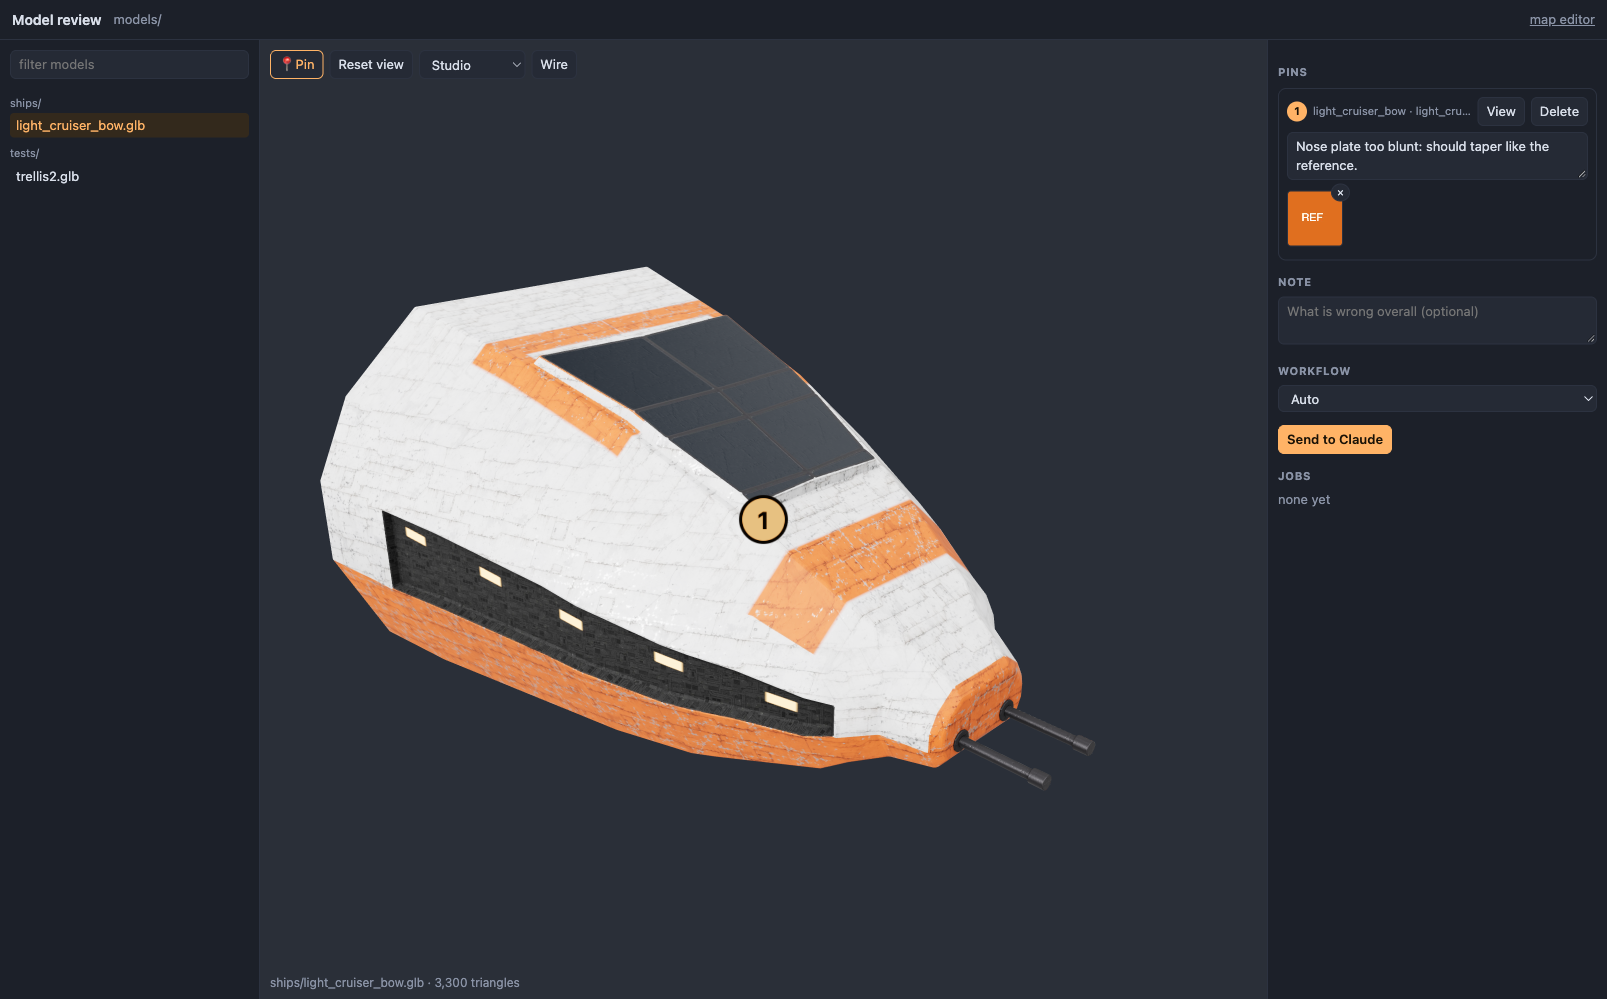
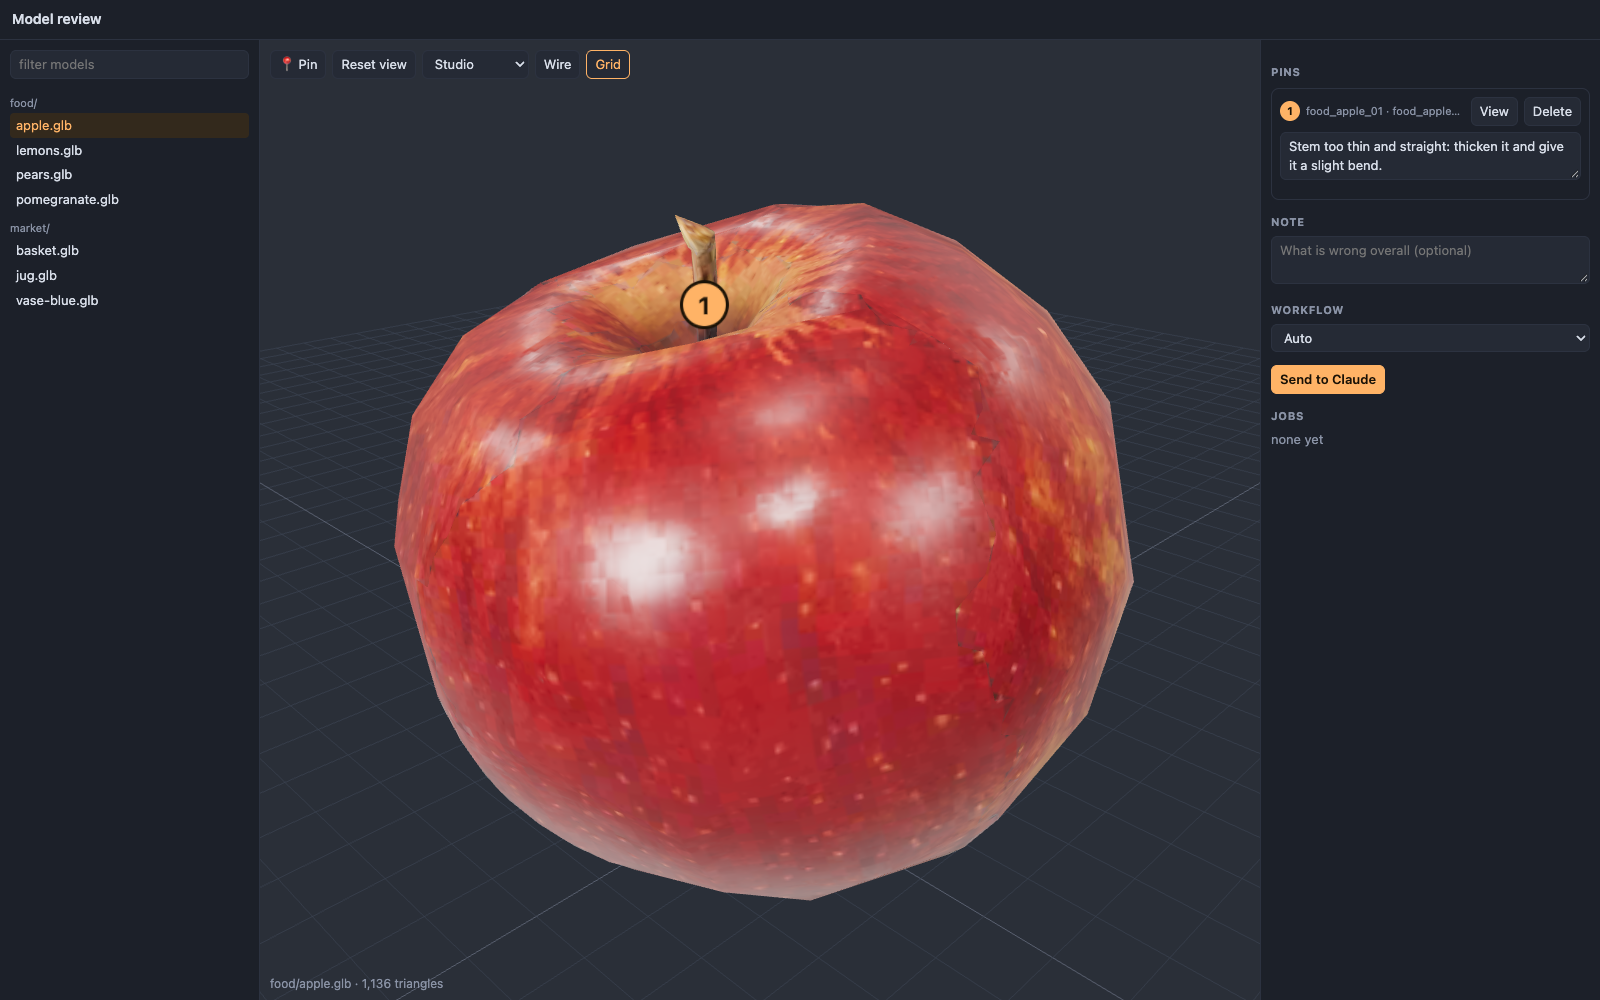
README: new screenshots and the workbench
- docs/editor.png and docs/editor-3d.png retaken with npm run screenshot (the current theme); docs/viewer.png
  shows an apple with a pin on its stem.
- The README follows the workbench commits: the map editor and model viewer are its tabs (/map and /viewer
  go to /?view=…, ?alone keeps the bare page), the bar, the side panel following the view, ⌘B ⌘I ⌘J for the
  panels, one grid switch (⌘G), the viewer's Grid button and ?model=.

diff --git a/README.md b/README.md
@@ -8,9 +8,9 @@ checks the plan against a JSON Schema, writes it atomically and keeps the old fi
 check warns about pieces standing in each other, things outside the map, blocked doors and similar. A
 **3D view** shows the same plan as boxes, where you lift pieces onto roofs and move them along x, y and z.
 A **model viewer** shows the game's models (GLB): pin what is wrong on a model, add notes and reference images,
-and send it to a Claude Code session that fixes it and reports back (see [Model review](#model-review)). Both pages
-share a bar with links between them and **Open project…**, which browses your home folder for another project to open,
-and a project's models appear in the palette as kinds of piece by themselves.
+and send it to a Claude Code session that fixes it and reports back (see [Model review](#model-review)). Both are
+tabs of one **workbench**, under one bar with **Open project…**, which browses your home folder for another project
+to open, and a project's models appear in the palette as kinds of piece by themselves.
 
 The editor's core works for any game. Anything specific to one game lives in a **project config file**
 (`map-editor.config.mjs`): where its kinds of piece and their sizes come from, its own compile and
@@ -63,7 +63,7 @@ npm install        # nothing to download: it only sets up the package
 npm start
 ```
 
-Then open **http://127.0.0.1:8793/** (the workbench; the map editor alone is at `/map`). `npm start` serves `examples/sample/`, a small walled square.
+Then open **http://127.0.0.1:8793/** (the workbench; `/map` and `/viewer` open it on that tab, and `?alone` after either gives the bare page, as scripts use). `npm start` serves `examples/sample/`, a small walled square.
 It has a tower, three houses, an open hall, a market stall, crates, two planters, a beacon, a person,
 a door, a walker's round, a well and three plants. The sample config uses each kind of option and
 hook once, including a **Report** Apply action and a status panel.
@@ -74,7 +74,7 @@ If 8793 is already in use (another editor, say), pick another port:
 npm start -- --port 8794
 ```
 
-The model viewer is at **http://127.0.0.1:8793/viewer**. The sample has no models: set `models` in a
+The model viewer is **Model viewer** in the bar (or **http://127.0.0.1:8793/viewer**). The sample has no models: set `models` in a
 project's config (see [Model review](#model-review)) to point it at a folder of `.glb` files.
 
 Everything the example writes goes into `examples/sample/maps/plaza/` and `examples/sample/out/`.
@@ -138,8 +138,9 @@ With no config file the editor still works:
 
 ## Opening a project
 
-The editor and the model viewer share a bar: **Map editor** | **Model viewer**, the open project's name, and
-**📁 Open project…**. Both pages always show the same project, the one the editor's server has open; `--project`
+The workbench's bar is the same in every view: the views (**Home**, **Map editor**, **Model viewer**; a dot on
+Map editor means unsaved changes), then the open project's name, which opens **Open project…**. Every view always
+shows the same project, the one the editor's server has open; `--project`
 sets the first.
 
 **Open project…** browses the folders under your **home folder** (hidden folders such as `~/.ssh` are left out). It
@@ -425,7 +426,8 @@ On a Mac, Cmd works in place of Ctrl. Keys other than Ctrl S are ignored while y
   - **A door**: with a piece selected whose kind has a `door`, a door hangs on it. With no piece selected,
     the door stands free at the middle of the view. It starts as sign `PRIVATE`, shut `Locked.`.
   - **A person's place**: asks for the person's id, then places them at the middle of the view.
-- **Show**: one checkbox per layer: the metre grid, plants, walkers' rounds, people, things to use, doors,
+- **Show**: one checkbox per layer: the metre grid (the same switch as the 3D view's grid, the model viewer's
+  and **⌘G**), plants, walkers' rounds, people, things to use, doors,
   and names, plus any layers the project adds. A lazy layer is loaded the first time you tick it.
 - **Legend**: what each colour means, including the project's own classes and layers.
 - **Keys**: a short list of the mouse and keyboard controls.
@@ -480,7 +482,7 @@ after you stop editing. Nothing is written until you save.
 and the same plan in 3D. Both views share the selection, undo and redo, the palette, Problems and the Selected
 panel, so you can switch at any time. The 3D view needs WebGL; without it the 3D button is greyed out.
 
-What it draws: the ground (a disc, or the bounds' rectangle) with the metre grid, the ring wall (2 m high,
+What it draws: the ground (a disc, or the bounds' rectangle), the metre grid over the whole floor, the ring wall (2 m high,
 open at the gate), and every piece as solid boxes of its kind's `size` (one box per entry of `boxes`, at
 full height, so an open hall is its walls), in its class's colour, standing at its `y`. A short line on the
 ground marks each piece's front. People, things, doors, rounds, the arrival and hand-placed plants are the
@@ -519,9 +521,10 @@ What it does not do (yet):
 
 ## Model review
 
-![The model viewer: a pin with a note and a reference image on a ship's bow](docs/viewer.png)
+![The model viewer: a pin with a note on an apple's stem](docs/viewer.png)
 
-The **model viewer** (`http://127.0.0.1:<port>/viewer`; the editor prints its address on start) shows a game's
+The **model viewer** (**Model viewer** in the bar, or `http://127.0.0.1:<port>/viewer`, which the editor prints on
+start; `?model=<path>` opens one model, and says so when the project has no such file) shows a game's
 models and sends what is wrong with them to a Claude Code session. Open a model, drop **pins** on the spots that
 need fixing, write a note on each (drop or paste up to four reference images onto a pin), choose a **workflow**
 and press **Send to Claude**. The job lands in an inbox folder; a Claude Code session watching it fixes the model
@@ -548,6 +551,7 @@ Nothing is fetched at any other time, and no CDN is used.
 | Drag a pin | moves it over the surface (and takes a new screenshot) |
 | **View** on a pin | flies back to the view it was placed from |
 | Drop or paste images on a pin | reference images (PNG, JPEG, WebP; at most 4), scaled to 2048 px at most |
+| **Grid** | a floor grid scaled to the model; the same switch as the map's grids (**⌘G**) |
 | **Send to Claude** | writes the job; pins and notes are kept as a draft in the browser until then |
 
 **Workflows.** **Auto**: Claude decides how to fix it (the project's build script when there is one, else Blender,
@@ -587,8 +591,12 @@ nfgames plugin list
 **The workbench.** `http://127.0.0.1:<port>/` is the workbench: an activity bar of tools, a side panel, documents
 in tabs, an inspector, a bottom panel (Jobs, Problems, Output and plugins' panels), a status bar, and **⌘K** for
 every command. Plugins add to it; **🧩 Plugins** turns them on and off and asks before trusting one, **⚙ Settings**
-edits their settings. Today's map editor (now at `/map`) and model viewer (`/viewer`) open in it as classic tools
-until they are rebuilt as plugins. Regions can be hidden (⌘K, "Toggle …"), not yet resized by dragging.
+edits their settings. The map editor and the model viewer are always its tabs (from the **Core Tools** plugin, until
+they are rebuilt as plugins): opening `/map` or `/viewer` in a browser goes to `/?view=map` or `/?view=viewer`, and
+only `?alone` (or a frame) gets the bare page. The side panel follows the view shown: the map editor's left column
+(the palette, Show, Legend, Keys) or the viewer's model list. The side panel, inspector and bottom panel hide from
+the bar or with **⌘B**, **⌘I** and **⌘J** (kept per browser), not yet resized by dragging; **⌘G** turns every grid
+on or off. On Windows and Linux, Ctrl stands for ⌘.
 
 How to write one, what it gets, and what trust means: [`docs/plugins.md`](docs/plugins.md). A small example:
 [`examples/plugins/hello`](examples/plugins/hello).
